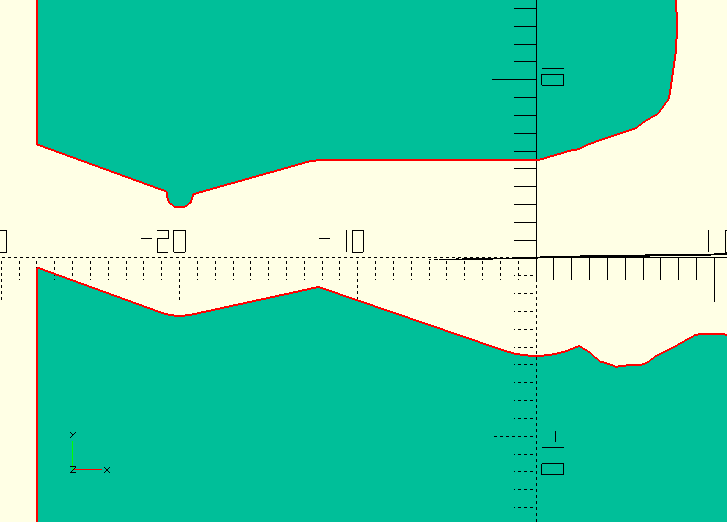
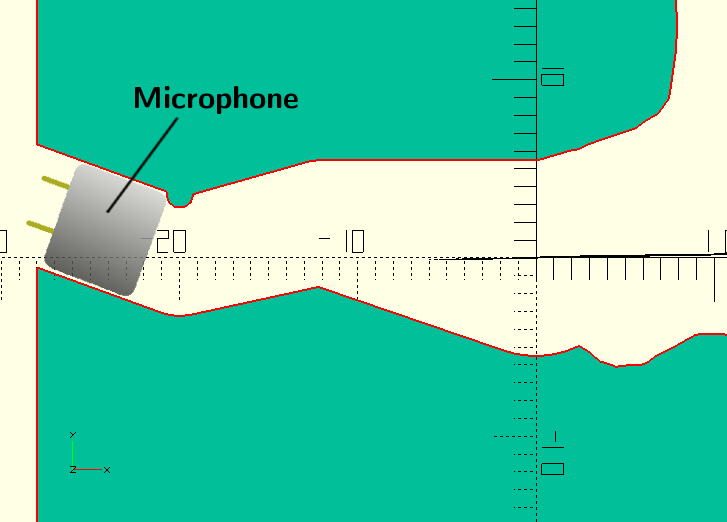
Added details

Changed region(s): [[0.0303, 0.2759, 0.2421, 0.5824], [0.1816, 0.1533, 0.4237, 0.2759]]

diff --git a/README.md b/README.md
@@ -3,7 +3,11 @@ Low-cost 3D-printable binaural microphone
 
 **Work in progress**  
 
+
 ![ScreenShot](pictures/binauralMic.png)  
+
+Detailed ear canal
+--
 ![ScreenShot](pictures/earCanal.png)  
 ![ScreenShot](pictures/earCanal_detail.png)  
 
